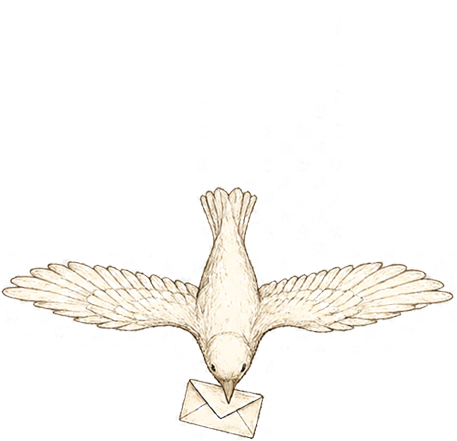
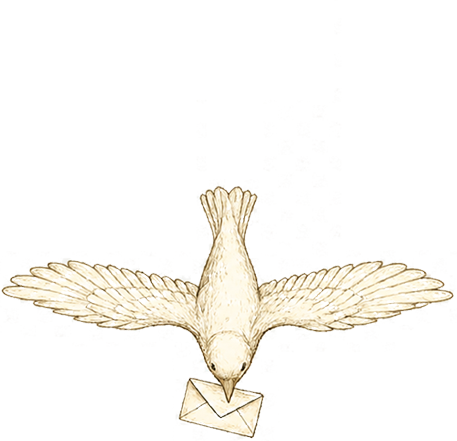
style: bird frames fade out as the next fades in; beats stretch to 850ms

Changed region(s): [[0.0, 0.4127, 1.0, 1.0]]

diff --git a/styles.css b/styles.css
@@ -271,7 +271,7 @@ section { padding: 96px 0; }
 .why-bird-frame {
   position: absolute; inset: 0; width: 100%; height: 100%;
   object-fit: contain;
-  opacity: 0; transition: opacity 0.45s ease; /* each frame breathes in */
+  opacity: 0; transition: opacity 0.6s ease; /* frames breathe in AND out — symmetric fade */
 }
 .why-bird[data-frame="0"] .why-bird-frame:nth-child(1),
 .why-bird[data-frame="1"] .why-bird-frame:nth-child(2),

diff --git a/script.js b/script.js
@@ -42,7 +42,7 @@ const bird = document.querySelector('.why-bird')
 if (bird && !window.matchMedia('(prefers-reduced-motion: reduce)').matches) {
   // Scroll only TRIGGERS the flip-book; playback runs on its own clock so
   // every frame gets its moment regardless of scroll speed.
-  const FRAME_MS = 650
+  const FRAME_MS = 850
   const birdObserver = new IntersectionObserver(
     (entries) => {
       for (const entry of entries) {
